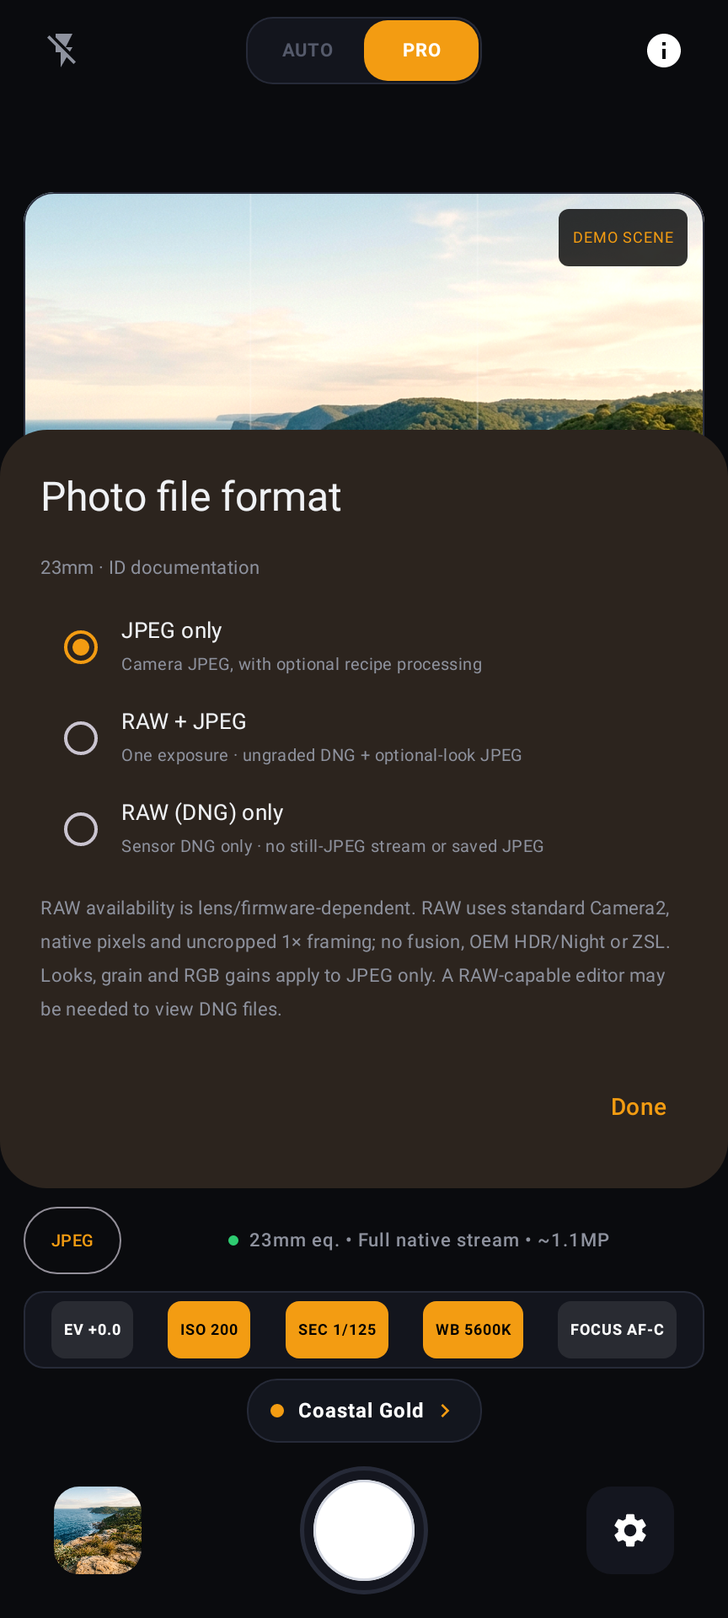
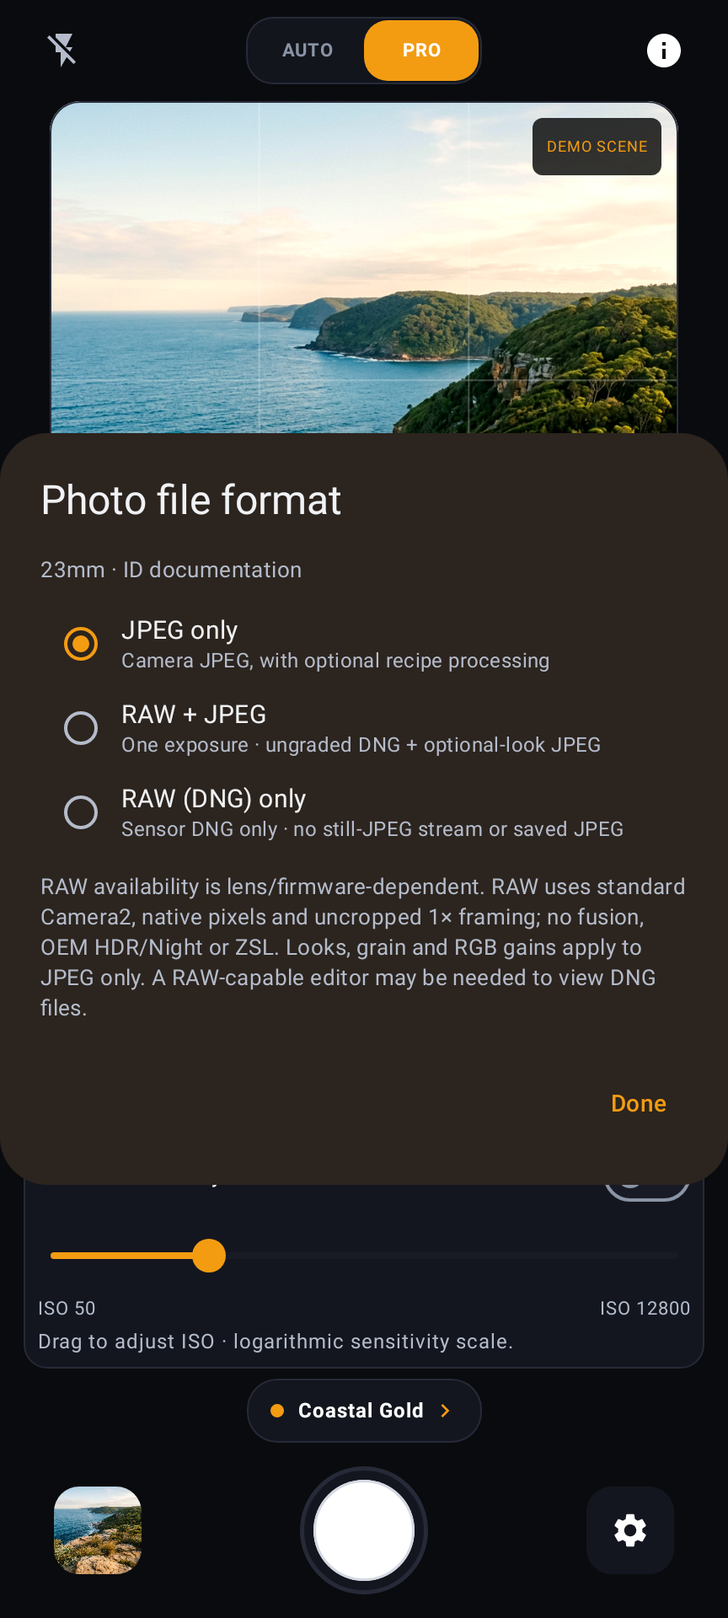
Show beta.3 Pro sliders and readable settings on the project website

diff --git a/site/index.html b/site/index.html
@@ -64,12 +64,12 @@
     <section class="hero section" aria-labelledby="hero-title">
       <div class="container hero-grid">
         <div class="hero-copy">
-          <a class="release-pill" href="https://github.com/TheSwagInDisguise/MobileFilmLab/releases/tag/v0.2.0-beta.2"><span class="status-dot"></span> Public release <span class="pill-version">v0.2.0-beta.2</span><svg class="icon"><use href="#i-arrow"/></svg></a>
+          <a class="release-pill" href="https://github.com/TheSwagInDisguise/MobileFilmLab/releases/tag/v0.2.0-beta.3"><span class="status-dot"></span> Public release <span class="pill-version">v0.2.0-beta.3</span><svg class="icon"><use href="#i-arrow"/></svg></a>
           <h1 id="hero-title">Natural photos.<br><em>No AI added.</em></h1>
           <p class="hero-description">Your camera hardware. Your eye. A quieter Android camera built around native output—not an image model.</p>
           <p class="hero-detail">Shoot naturally, take manual control, or choose a film-inspired look. The processing MobileFilmLab adds is local, optional and non-AI.</p>
           <div class="hero-buttons">
-            <a class="button button-primary download-link" href="https://github.com/TheSwagInDisguise/MobileFilmLab/releases/download/v0.2.0-beta.2/MobileFilmLab-v0.2.0-beta.2-signed.apk"><svg class="icon"><use href="#i-download"/></svg> Download for Android</a>
+            <a class="button button-primary download-link" href="https://github.com/TheSwagInDisguise/MobileFilmLab/releases/download/v0.2.0-beta.3/MobileFilmLab-v0.2.0-beta.3-signed.apk"><svg class="icon"><use href="#i-download"/></svg> Download for Android</a>
             <a class="text-link" href="#experience">Take a look <svg class="icon"><use href="#i-arrow"/></svg></a>
           </div>
           <div class="hero-meta"><span>Android 9+</span><span>Free &amp; open source</span><span>Photos only</span></div>
@@ -106,16 +106,25 @@
         <div class="section-heading centered-heading"><p class="eyebrow">02 / The experience</p><h2 id="experience-title">Room to see.<br><em>Control when you want it.</em></h2><p>A familiar viewfinder, thoughtful controls and nothing asking you to shoot video.</p></div>
         <div class="screens-grid">
           <article class="screen-card"><div class="screen-heading"><span class="screen-index">01</span><h3>AUTO, without the noise.</h3><p>Compose, focus and shoot. A clean viewfinder, lens shortcuts and a natural default.</p></div><button class="screen-button" type="button" data-screen="assets/app-auto.webp" data-title="AUTO — actual UI render with demo scene" aria-label="Enlarge the AUTO interface"><span class="phone"><img src="assets/app-auto.webp" width="864" height="1920" alt="AUTO app interface with illustrative camera state and a labelled demo scene" loading="lazy" decoding="async"></span><span class="enlarge-label">View larger <svg class="icon"><use href="#i-external"/></svg></span></button></article>
-          <article class="screen-card"><div class="screen-heading"><span class="screen-index">02</span><h3>PRO, on your terms.</h3><p>ISO, shutter, white balance and focus. Hardware-limited controls, no mystery promises.</p></div><button class="screen-button" type="button" data-screen="assets/app-pro.webp" data-title="PRO — actual UI render with illustrative settings" aria-label="Enlarge the PRO interface"><span class="phone"><img src="assets/app-pro.webp" width="864" height="1920" alt="PRO app interface with illustrative manual settings and a custom look" loading="lazy" decoding="async"></span><span class="enlarge-label">View larger <svg class="icon"><use href="#i-external"/></svg></span></button></article>
+          <article class="screen-card"><div class="screen-heading"><span class="screen-index">02</span><h3>PRO, on your terms.</h3><p>EV, ISO, shutter and white-balance sliders. Explicit Auto/metered states and directly selectable focus modes.</p></div><button class="screen-button" type="button" data-screen="assets/app-pro.webp" data-title="PRO — actual UI render with illustrative settings" aria-label="Enlarge the PRO interface"><span class="phone"><img src="assets/app-pro.webp" width="864" height="1920" alt="PRO app interface with an ISO slider, illustrative manual settings and a custom look" loading="lazy" decoding="async"></span><span class="enlarge-label">View larger <svg class="icon"><use href="#i-external"/></svg></span></button></article>
           <article class="screen-card"><div class="screen-heading"><span class="screen-index">03</span><h3>A little character. Optional.</h3><p>Live colour previews, a Tone / Warmth pad and saved looks. Leave it natural—or make it yours.</p></div><button class="screen-button" type="button" data-screen="assets/app-recipes.webp" data-title="Recipe editing — actual UI render with custom test presets" aria-label="Enlarge the recipe editor"><span class="phone"><img src="assets/app-recipes.webp" width="864" height="1920" alt="Actual recipe drawer with demo colour previews and the Tone Warmth pad" loading="lazy" decoding="async"></span><span class="enlarge-label">View larger <svg class="icon"><use href="#i-external"/></svg></span></button></article>
         </div>
         <p class="screens-disclosure">These are real Android/Compose components rendered with a labelled, AI-generated demo scene and illustrative camera/control/RAW capability state. They are not photos taken by MobileFilmLab or evidence of camera quality. <a href="https://github.com/TheSwagInDisguise/MobileFilmLab/blob/main/docs/SCREENSHOTS.md">See provenance.</a></p>
       </div>
     </section>
 
+    <section id="pro-controls" class="section pro-controls-section" aria-labelledby="pro-controls-title">
+      <div class="container raw-formats-grid">
+        <div class="raw-formats-copy"><p class="eyebrow">New in beta.3 / Clearer by design</p><h2 id="pro-controls-title">Less tapping.<br><em>More control.</em></h2><p>Open a parameter. Drag its slider. See the value. Pro controls no longer ask you to tap through a list of settings.</p>
+          <div class="format-options"><article><span>01</span><div><h3>Slide, don’t cycle.</h3><p>EV snaps to the camera’s exposure steps. ISO and shutter use photographic logarithmic scales. White balance has a temperature slider and Auto.</p></div></article><article><span>02</span><div><h3>Honest limits. Explicit states.</h3><p>Controls follow the selected camera’s capabilities. With one exposure axis manual, its companion is metered then held—not priority-auto exposure. Return both to Auto for EV.</p></div></article><article><span>03</span><div><h3>Settings you can read.</h3><p>Higher-contrast labels, larger explanations and roomier choices. Scroll the settings without losing the Done action.</p></div></article></div>
+          <p class="raw-limits">Shutter respects sensor/frame limits and a 30-second app cap. White-balance Kelvin is an approximate gain model, not calibrated colour science. Real-device response still needs testing.</p><a class="text-link" href="https://github.com/TheSwagInDisguise/MobileFilmLab/blob/main/docs/PRO_CONTROLS.md">Pro controls and limitations <svg class="icon"><use href="#i-arrow"/></svg></a>
+        </div><div class="raw-formats-visual"><button class="screen-button" type="button" data-screen="assets/app-settings.webp" data-title="Readable Settings — actual native UI render with illustrative camera state" aria-label="Enlarge the readable settings panel"><span class="phone"><img src="assets/app-settings.webp" width="864" height="1920" alt="Actual high-contrast Settings panel with light labels and a persistent gold Done button" loading="lazy" decoding="async"></span><span class="enlarge-label">View settings <svg class="icon"><use href="#i-external"/></svg></span></button><p>Actual Android/Compose UI render<br>Illustrative state, not a handset screenshot.</p></div>
+      </div>
+    </section>
+
     <section id="raw-formats" class="section raw-formats-section" aria-labelledby="raw-formats-title">
       <div class="container raw-formats-grid">
-        <div class="raw-formats-copy"><p class="eyebrow">New in beta.2 / Your files, your choice</p><h2 id="raw-formats-title">One sensor capture.<br><em>Three ways to keep it.</em></h2><p>Keep a ready-to-use image, develop the sensor data yourself, or save both. File formats are enabled per camera—not promised for every lens.</p>
+        <div class="raw-formats-copy"><p class="eyebrow">Sensor capture / Your files, your choice</p><h2 id="raw-formats-title">One sensor capture.<br><em>Three ways to keep it.</em></h2><p>Keep a ready-to-use image, develop the sensor data yourself, or save both. File formats are enabled per camera—not promised for every lens.</p>
           <div class="format-options"><article><span>01</span><div><h3>JPEG only</h3><p>Natural by default. Optional looks, grain and JPEG processing stay in your hands.</p></div></article><article><span>02</span><div><h3>RAW (DNG) only</h3><p>Actual RAW_SENSOR data, streamed to DNG without an app colour grade, crop or interpolation. No still-JPEG stream.</p></div></article><article><span>03</span><div><h3>RAW + JPEG</h3><p>A timestamp-matched pair with one filename stem. A JPEG you can share, and an ungraded DNG you can develop.</p></div></article></div>
           <p class="raw-limits">RAW uses standard Camera2, native 1× and advertised streams up to 55MP. No RAW fusion, OEM HDR/Night or ZSL. DNG rendering, dimensions and firmware support vary; a compatible RAW editor may be needed.</p><a class="text-link" href="https://github.com/TheSwagInDisguise/MobileFilmLab/blob/main/docs/DYNAMIC_CAMERAS_AND_RAW.md">Camera and RAW details <svg class="icon"><use href="#i-arrow"/></svg></a>
         </div><div class="raw-formats-visual"><button class="screen-button" type="button" data-screen="assets/app-formats.webp" data-title="File format controls — actual UI render with illustrative RAW capability" aria-label="Enlarge the JPEG RAW and RAW plus JPEG controls"><span class="phone"><img src="assets/app-formats.webp" width="864" height="1920" alt="Actual format dialog rendered with illustrative RAW capability, not a real sensor capture" loading="lazy" decoding="async"></span><span class="enlarge-label">View format controls <svg class="icon"><use href="#i-external"/></svg></span></button><p>Actual UI render · simulated capability state<br>Not evidence of a captured or validated sensor DNG.</p></div>
@@ -142,15 +151,16 @@
       <div class="container questions-grid"><div class="questions-heading"><p class="eyebrow">05 / A few honest answers</p><h2 id="questions-title">Before your<br><em>first frame.</em></h2><p>No hidden magic.<br>No promises the hardware can’t keep.</p></div><div class="faq-list">
         <details><summary>Does the app use AI to process my photos?<span class="faq-plus" aria-hidden="true"></span></summary><div class="faq-answer"><p>MobileFilmLab adds no generative image model, ML enhancement or cloud photo processing. Its optional editing and fusion are conventional algorithms.</p><p>Your device’s camera/ISP still processes images, and optional manufacturer extensions may use proprietary techniques. We can’t promise that every firmware path is AI-free.</p></div></details>
         <details><summary>Can I capture real RAW files?<span class="faq-plus" aria-hidden="true"></span></summary><div class="faq-answer"><p>Yes, on camera routes that advertise usable RAW_SENSOR support. Choose RAW (DNG) only, RAW + JPEG, or JPEG only from the format badge or Settings. RAW-only requests no still JPEG; paired mode uses one timestamp-matched request.</p><p>DNG is written from the sensor image through Android DngCreator—not converted from a JPEG. No app recipe, grain, RGB correction, digital crop or interpolation is applied. RAW modes use standard Camera2, native 1× and advertised normal-pixel-mode sizes up to 55MP; OEM modes, fusion and ZSL are JPEG-only.</p><p>Firmware can reject advertised combinations. Real DNG validity and rendering still need handset testing in a RAW-capable editor. Hardware corrections can already be present in exposed RAW.</p></div></details>
+        <details><summary>How do the Pro sliders work?<span class="faq-plus" aria-hidden="true"></span></summary><div class="faq-answer"><p>Tap a parameter tab to open its editor without changing the value. EV, ISO, shutter and white balance use sliders; Auto/metered is an explicit switch, and supported autofocus modes are direct choices.</p><p>EV needs both ISO and shutter set to Auto. If just one exposure axis is manual, the other uses a metered-and-held value—not true ISO/shutter-priority auto. Shutter is bounded by sensor/frame limits and 30 seconds; WB Kelvin is approximate. Unsupported controls show a reason.</p><p>Settings also has higher-contrast text, larger labels and a scrolling body with a persistent Done action. Actual handset display and manual-control behaviour still need testing.</p></div></details>
         <details><summary>How do I keep the most natural starting point?<span class="faq-plus" aria-hidden="true"></span></summary><div class="faq-answer"><p>Use the default Natural baseline, standard Camera2 processing, native output and 1× framing, with grain off and lens gains unchanged. In that unedited path, the exposed JPEG pixel data is preserved and capture/recipe metadata is added.</p><p>Choosing a look, crop, grain or calibration edit changes the result. Those creative choices stay in your hands.</p></div></details>
         <details><summary>How does the app find my lenses?<span class="faq-plus" aria-hidden="true"></span></summary><div class="faq-answer"><p>Camera2 provides public camera IDs, physical links behind logical cameras, focal lengths, sensor dimensions and stream capabilities. The selector now shows all exposed photo-capable rear routes instead of four fixed slots, and selects each by its exact ID.</p><p>Labels use approximate detected equivalent focal lengths, physical millimetres marked with an asterisk when necessary, or an ID if metadata is missing. Logical Auto routes are not additional physical lenses. Firmware-hidden cameras remain inaccessible.</p><p>Oppo Find X9 Ultra remains the primary target. Please send a device report to help expand compatibility.</p></div></details>
         <details><summary>Why is the screenshot scene AI-generated?<span class="faq-plus" aria-hidden="true"></span></summary><div class="faq-answer"><p>The screenshots render the app’s actual Android/Compose UI without a connected handset. The landscape and camera/RAW capability state are illustrative. They demonstrate the controls, not a captured photo, valid sensor DNG or device compatibility.</p><p>The project was also developed substantially with AI assistance. That is separate from the app’s photo-processing design. <a href="https://github.com/TheSwagInDisguise/MobileFilmLab/blob/main/docs/AI_DISCLOSURE.md">Read the development disclosure.</a></p></div></details>
-        <details><summary>Is this a stable, universally tested camera app?<span class="faq-plus" aria-hidden="true"></span></summary><div class="faq-answer"><p>No. The current version is v0.2.0-beta.2, published as the latest regular GitHub Release by owner request. That classification does not turn it into a newly built stable version or certify every device and feature.</p><p>Keep another camera available for important photos and read the <a href="https://github.com/TheSwagInDisguise/MobileFilmLab/blob/main/KNOWN_LIMITATIONS.md">known limitations</a>.</p></div></details>
+        <details><summary>Is this a stable, universally tested camera app?<span class="faq-plus" aria-hidden="true"></span></summary><div class="faq-answer"><p>No. The current version is v0.2.0-beta.3, published as the latest regular GitHub Release by owner request. That classification does not turn it into a newly built stable version or certify every device and feature.</p><p>Keep another camera available for important photos and read the <a href="https://github.com/TheSwagInDisguise/MobileFilmLab/blob/main/KNOWN_LIMITATIONS.md">known limitations</a>.</p></div></details>
       </div></div>
     </section>
 
     <section id="download" class="section download-section" aria-labelledby="download-title">
-      <div class="container"><div class="download-card"><div class="download-heading"><img src="assets/icon.png" width="72" height="72" alt="MobileFilmLab film-canister icon" loading="lazy"><p class="eyebrow">Your next frame is yours.</p><h2 id="download-title">Take the camera.<br><em>Leave the image model.</em></h2><p>Free, open source, and ready for public testing.</p></div><div class="download-panel"><div class="download-version"><span class="status-dot"></span> Latest release <strong>v0.2.0-beta.2</strong></div><a class="button button-primary button-full download-link" href="https://github.com/TheSwagInDisguise/MobileFilmLab/releases/download/v0.2.0-beta.2/MobileFilmLab-v0.2.0-beta.2-signed.apk"><svg class="icon"><use href="#i-download"/></svg> Download signed APK <span>39.0 MiB</span></a><p class="download-requirements">Android 9+ · versionCode 11 · GPL-3.0-or-later</p><a class="release-details-link" href="https://github.com/TheSwagInDisguise/MobileFilmLab/releases/tag/v0.2.0-beta.2">Release notes, checksums &amp; testing guide <svg class="icon"><use href="#i-external"/></svg></a><div class="install-note"><svg class="icon"><use href="#i-check"/></svg><p>Updating? Install over the existing release. The package and signing key are unchanged. Don’t uninstall if you want to keep your app data.</p></div><details class="checksum-details"><summary>Verify the download <svg class="icon"><use href="#i-shield"/></svg></summary><div><span class="checksum-label">APK SHA-256</span><code id="apk-checksum">b85473ac25aeea56c52a44de731b3712835c8db715ed39ba391bfb203bdd210b</code><button class="copy-button" type="button" data-copy="apk-checksum"><svg class="icon"><use href="#i-copy"/></svg> Copy checksum</button><span id="copy-status" class="copy-status" role="status" aria-live="polite"></span></div></details></div></div></div>
+      <div class="container"><div class="download-card"><div class="download-heading"><img src="assets/icon.png" width="72" height="72" alt="MobileFilmLab film-canister icon" loading="lazy"><p class="eyebrow">Your next frame is yours.</p><h2 id="download-title">Take the camera.<br><em>Leave the image model.</em></h2><p>Free, open source, and ready for public testing.</p></div><div class="download-panel"><div class="download-version"><span class="status-dot"></span> Latest release <strong>v0.2.0-beta.3</strong></div><a class="button button-primary button-full download-link" href="https://github.com/TheSwagInDisguise/MobileFilmLab/releases/download/v0.2.0-beta.3/MobileFilmLab-v0.2.0-beta.3-signed.apk"><svg class="icon"><use href="#i-download"/></svg> Download signed APK <span>39.1 MiB</span></a><p class="download-requirements">Android 9+ · versionCode 12 · GPL-3.0-or-later</p><a class="release-details-link" href="https://github.com/TheSwagInDisguise/MobileFilmLab/releases/tag/v0.2.0-beta.3">Release notes, checksums &amp; testing guide <svg class="icon"><use href="#i-external"/></svg></a><div class="install-note"><svg class="icon"><use href="#i-check"/></svg><p>Updating? Install over the existing release. The package and signing key are unchanged. Don’t uninstall if you want to keep your app data.</p></div><details class="checksum-details"><summary>Verify the download <svg class="icon"><use href="#i-shield"/></svg></summary><div><span class="checksum-label">APK SHA-256</span><code id="apk-checksum">5f1dfb769e66b73218d4102c77ff5038c045f5542356ea89394ceade3af0893d</code><button class="copy-button" type="button" data-copy="apk-checksum"><svg class="icon"><use href="#i-copy"/></svg> Copy checksum</button><span id="copy-status" class="copy-status" role="status" aria-live="polite"></span></div></details></div></div></div>
     </section>
   </main>
 

diff --git a/site/styles.css b/site/styles.css
@@ -16,3 +16,6 @@ h1,h2,h3{margin:0;font-weight:500}h1,h2{font-family:var(--serif);letter-spacing:
 .raw-formats-section{border-bottom:1px solid #282e36;background:radial-gradient(ellipse at 85% 50%,#77532c12,transparent 55%),#0c1015}.raw-formats-grid{display:grid;grid-template-columns:1.12fr .88fr;gap:100px;align-items:center}.raw-formats-copy>p:not(.eyebrow):not(.raw-limits){color:var(--muted);font-size:13px;line-height:1.9;max-width:430px;margin-top:23px}.format-options{margin-top:29px;display:flex;flex-direction:column}.format-options article{display:flex;gap:18px;padding:19px 0;border-bottom:1px solid #30353d}.format-options article>span{font-size:10px;color:var(--accent);padding-top:3px}.format-options h3{font-size:15px}.format-options p{font-size:11px;color:#a8b0ba;line-height:1.9;margin-top:7px}.raw-limits{font-size:10px;line-height:1.95;color:#939daa;margin-top:23px;max-width:440px}.raw-formats-copy>.text-link{font-size:11px;margin-top:22px}.raw-formats-visual{border:1px solid #34363b;border-radius:22px;background:linear-gradient(145deg,#25221c,#11171e);padding:34px 27px 24px}.raw-formats-visual .phone{width:248px}.raw-formats-visual>p{text-align:center;color:#a3aab4;font-size:9px;line-height:1.9;margin-top:18px}.raw-formats-visual .screen-button .phone{width:248px;max-width:100%}
 @media(max-width:900px){.raw-formats-grid{gap:48px}.raw-formats-visual{padding:26px 19px 22px}.raw-formats-copy h2{font-size:39px}}
 @media(max-width:640px){.raw-formats-grid{grid-template-columns:1fr;gap:34px}.raw-formats-copy h2{font-size:40px}.raw-formats-copy>p:not(.eyebrow):not(.raw-limits){font-size:12px;margin-top:20px}.raw-formats-visual{max-width:365px;width:100%;margin-inline:auto;padding:29px 28px 23px}.raw-formats-visual .screen-button .phone{width:238px}.raw-limits{font-size:10px}}
+
+/* Beta.3: readable native settings and direct Pro editors. */
+.pro-controls-section{border-bottom:1px solid #282e36;background:radial-gradient(ellipse at 10% 45%,#77532c10,transparent 60%),#0e1217}

diff --git a/scripts/check_site.py b/scripts/check_site.py
@@ -73,6 +73,7 @@ def main():
     downloads = [ref for _, _, ref in parser.refs if ref.endswith('.apk')]
     assert len(downloads) >= 2 and set(downloads) == {release['apkUrl']}, 'Stale download CTA'
     assert release['sha256'] in html and release['primaryDevice'] in html
+    assert 'pro-controls' in parser.ids and 'assets/app-settings.webp' in html and 'logarithmic' in html, 'Missing beta.3 Pro/readability showcase'
     assert 'RAW_SENSOR' in html and 'RAW + JPEG' in html and 'ISP' in html and 'firmware' in html, 'Missing RAW capability/firmware disclosure'
     assert 'AI-generated demo scene' in html and 'AI-assisted development' in html, 'Missing provenance disclosure'
     for filename in ('styles.css', 'app.js', 'robots.txt', 'sitemap.xml', '.nojekyll'):

diff --git a/docs/WEBSITE.md b/docs/WEBSITE.md
@@ -14,6 +14,8 @@ A static, mobile-friendly showcase of MobileFilmLab's natural-capture philosophy
 - `scripts/check_site.py` — dependency-free checks for local links/assets, anchors, release consistency and required disclosures.
 - `.github/workflows/pages.yml` — validate, upload and deploy `site/` to the `github-pages` environment.
 
+The five native UI states include the beta.3 ISO-slider editor and readable Settings. Screenshot assets were regenerated as pixel-identical lossless WebPs.
+
 The screenshots use a labelled AI-generated scene and illustrative camera/control state. They are not handset captures or app-photo quality examples. [Provenance](SCREENSHOTS.md).
 
 ## Local development
@@ -31,10 +33,14 @@ Changes to `site/`, the site checker or the Pages workflow on `main` trigger dep
 
 Keep `site/release.json` and the visible HTML version, APK links, checksum, file size and code in sync with the actual verified release. The checker compares the release version/code with Gradle and rejects stale or unexpected download CTAs. Do not link withdrawn historical APKs.
 
-The current app remains **v0.2.0-beta.2 / code 11**, published as the next regular Latest GitHub Release with the established package/key and increased code. Classification is not a new stable-version build or universal hardware validation. See [publication policy](PUBLIC_RELEASE.md).
+The current app remains **v0.2.0-beta.3 / code 12**, published as the next regular Latest GitHub Release with the established package/key and increased code. Classification is not a new stable-version build or universal hardware validation. See [publication policy](PUBLIC_RELEASE.md).
 
 ## Privacy and honest wording
 
 No advertising, analytics, third-party JavaScript, remote fonts or cookies are added by this site. GitHub Pages receives normal hosting requests; following GitHub links or downloading the APK contacts GitHub. The website does not process camera images.
 
 The central promise is **no AI enhancement added by MobileFilmLab**. Camera firmware/ISP and optional manufacturer modes may still use proprietary processing we cannot inspect. JPEG is not an unprocessed sensor dump; supported RAW formats save actual RAW_SENSOR DNG without app editing, but hardware/firmware corrections may still be present. Preserve those distinctions when editing the marketing copy. See [natural capture](NATURAL_CAPTURE.md).
+
+## Beta.3 site checks
+
+The updated site was checked in Chromium at 1440, 768, 390 and 320 pixel widths: no horizontal overflow, JavaScript/HTTP errors or automated WCAG A/AA violations were detected. All five native UI image dialogs, Escape dismissal, mobile navigation, expanded FAQs and checksum feedback passed. These are automated checks, not a full accessibility certification. The site points only to the independently verified beta.3 signed APK/hash.

diff --git a/docs/QA_BETA_3.md b/docs/QA_BETA_3.md
@@ -1,10 +1,10 @@
 # Beta.3 validation scope
 
-**Candidate:** `v0.2.0-beta.3` / code **12**, same package and signing key. Owner-authorised for publication as the next regular Latest release after checks, with the website updated before withdrawing superseded binaries. Source tags and history remain immutable.
+**Release:** `v0.2.0-beta.3` / code **12**, same package and signing key. Owner-authorised for publication as the next regular Latest release after checks, with the website updated before withdrawing superseded binaries. Source tags and history remain immutable.
 
 ## Local execution
 
-116 Android tests in 24 classes pass with zero failures/errors/skips. Release lint passes. The native screenshot test produces five actual UI states; slider interaction and compact-screen 1.5× font-scale Settings checks run against production components. Remote publication/integrity gates below still apply.
+116 Android tests in 24 classes pass with zero failures/errors/skips. Release lint passes. The native screenshot test produces five actual UI states; slider interaction and compact-screen 1.5× font-scale Settings checks run against production components. The exact-tag remote CI and signed-release gates also passed, followed by independent downloaded-APK verification.
 
 ## Automated gates
 
@@ -28,3 +28,7 @@ No physical camera is attached to the automated environment. Verify readable tex
 RAW sensor buffers and DNG rendering must still be validated in a compatible editor on actual hardware. The storage suite uses controlled payloads and UI fixtures use illustrative metadata; neither proves a sensor DNG was captured. No new measured image-quality or stock-pipeline equivalence claim is made.
 
 [Pro controls / limits](PRO_CONTROLS.md) · [Public checklist](TESTING.md) · [RAW implementation boundaries](QA_BETA_2.md) · [Provenance](SCREENSHOTS.md)
+
+## Exact-tag execution
+
+[Main CI](https://github.com/TheSwagInDisguise/MobileFilmLab/actions/runs/41060051050) · [Signed release](https://github.com/TheSwagInDisguise/MobileFilmLab/actions/runs/41060737213) · source `8746d4094b6d4c2e2f203886d9fd9002f0431bb7`. Remote QA confirms 116 tests / 24 classes with zero failures/errors/skips, five native UI renders and no release-lint errors. APK integrity/signing details are recorded in [publication evidence](PUBLIC_RELEASE.md#verified-beta3-build).

diff --git a/docs/PUBLIC_RELEASE.md b/docs/PUBLIC_RELEASE.md
@@ -12,8 +12,16 @@ APK bytes are immutable after publication. Bugs require a new code/version/tag, 
 
 ## Checks and evidence boundaries
 
-The local Android suite passes **116 tests in 24 classes**, including production Compose slider interactions, larger-text Settings scrolling and five native documentation renders. Release lint passes. Exact-tag approval tests, remote CI, signed release checks and independent downloaded-APK verification are required before delivery. [Beta.3 QA scope](QA_BETA_3.md).
+The local Android suite passes **116 tests in 24 classes**, including production Compose slider interactions, larger-text Settings scrolling and five native documentation renders. Release lint passes. The exact tag also passed remote CI, signed-release checks and independent downloaded-APK verification. [Beta.3 QA scope](QA_BETA_3.md).
 
 A physical camera is not connected here. Real handset slider response, long exposures and actual sensor DNG validity still require device/editor testing. Native UI renders contain a labelled generated scene and illustrative state, not handset captures.
 
 Historical [beta.2 publication record](archive/PUBLIC_RELEASE_BETA_2.md) · [beta.1 publication record](archive/PUBLIC_RELEASE_BETA_1.md) · [Signing](RELEASE_SIGNING.md) · [Validation status](BETA_READINESS.md)
+
+## Verified beta.3 build
+
+- Immutable app source tag: `8746d4094b6d4c2e2f203886d9fd9002f0431bb7`.
+- [Main CI](https://github.com/TheSwagInDisguise/MobileFilmLab/actions/runs/41060051050) and [signed release](https://github.com/TheSwagInDisguise/MobileFilmLab/actions/runs/41060737213) succeeded.
+- 116 Android tests / 24 classes and six approval tests passed; release lint and downloaded APK package/version/alignment/established-certificate checks passed.
[1 lines of base64/hex data omitted]
+- The site is updated separately without rebuilding/replacing these immutable APK bytes. Older binaries are retired only after hosted-site verification.
